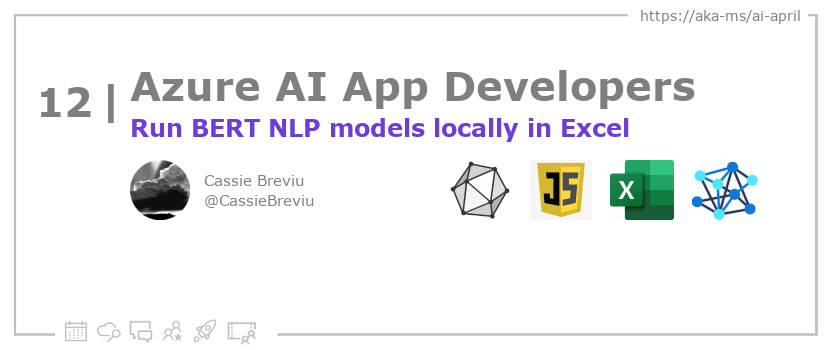
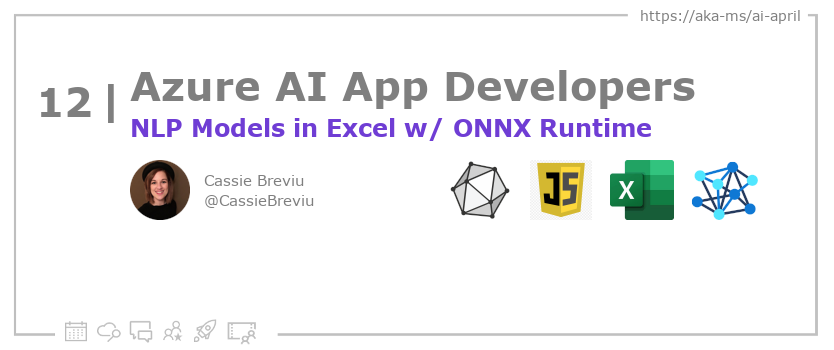
docs

Changed region(s): [[0.1559, 0.3143, 0.7794, 0.4], [0.1559, 0.4571, 0.2494, 0.6286]]

diff --git a/website/2023-aia/2023-04-13-inside-onnx-excel/index.md b/website/2023-aia/2023-04-13-inside-onnx-excel/index.md
@@ -1,6 +1,6 @@
 ---
 slug: "day12"
-title: "12. 🧑💻Run BERT NLP models locally in Excel"
+title: "12. 🧑💻NLP Models in Excel w/ ONNX Runtime"
 authors: ['Cassie']
 draft: false
 hide_table_of_contents: false
@@ -24,7 +24,7 @@ description: "Build an Excel Add-in with ONNX Runtime Web for NLP Tasks https://
 <!-- - 📰 [Subscribe to the #30DaysOfAzureAI RSS feed](https://azureaidevs.github.io/hub/2023-aia/rss.xml) -->
 - 🌤 [Continue the Azure AI Cloud Skills Challenge](https://aka.ms/30-days-of-azure-ai-challenge)
 - 🏫 [Bookmark the Azure AI Technical Community](https://techcommunity.microsoft.com/t5/artificial-intelligence-and/ct-p/AI)
-- 🙋🏾♂ [Ask a question about this post on GitHub Discussions](https://github.com/AzureAiDevs/hub/discussions/categories/12-run-bert-nlp-models-locally-in-excel)
+- 🙋🏾♂ [Ask a question about this post on GitHub Discussions](https://github.com/AzureAiDevs/hub/discussions/categories/12-nlp-models-in-excel-w/-onnx-runtime)
 - 💡 [Suggest a topic for a future post](https://github.com/AzureAiDevs/hub/discussions/categories/call-for-content)
 
 
@@ -80,7 +80,9 @@ See the Learn More section, if you supplied a canonical link, then will be displ
 
 ## 🚌 Build an Excel Add-in with ONNX Runtime Web for Inferencing NLP models on Device
 
-Read [today's article](https://onnxruntime.ai/docs/tutorials/web/excel-addin-bert-js.html) about building an Excel Add-in with ONNX Runtime and JavaScript with on device inferencing. You'll learn how ONNX Runtime enables the inference of ML models cross-platform even locally in an Excel add-in! That tasks in this example will show you how to perform the natural language processing tasks of sentiment analysis and question and answering all locally within a spreadsheet.  [Today's article](https://onnxruntime.ai/docs/tutorials/web/excel-addin-bert-js.html) provides step-by-step instructions and code examples to help readers follow along in building the add-in.
+Read [today's article](https://onnxruntime.ai/docs/tutorials/web/excel-addin-bert-js.html) about building an Excel Add-in with ONNX Runtime and JavaScript with on device inferencing. You'll learn how ONNX Runtime enables the inference of ML models cross-platform even locally in an Excel add-in! 
+
+The tasks in this example will show you how to perform the natural language processing tasks of sentiment analysis and question and answering all locally within a spreadsheet.  [Today's article](https://onnxruntime.ai/docs/tutorials/web/excel-addin-bert-js.html) provides step-by-step instructions and code examples to help readers follow along in building the add-in.
 
 ## 👓 Read today's article
 
@@ -89,7 +91,7 @@ Today's [article](https://onnxruntime.ai/docs/tutorials/web/excel-addin-bert-js.
 
 ## 🙋🏾♂ Questions?
 
-[Remember, you can ask a question about this post on GitHub Discussions](https://github.com/AzureAiDevs/Discussions/discussions/categories/12-run-bert-nlp-models-locally-in-excel)
+[Remember, you can ask a question about this post on GitHub Discussions](https://github.com/AzureAiDevs/Discussions/discussions/categories/12-nlp-models-in-excel-w/-onnx-runtime)
 
 ## 📍 30 days roadmap
 
